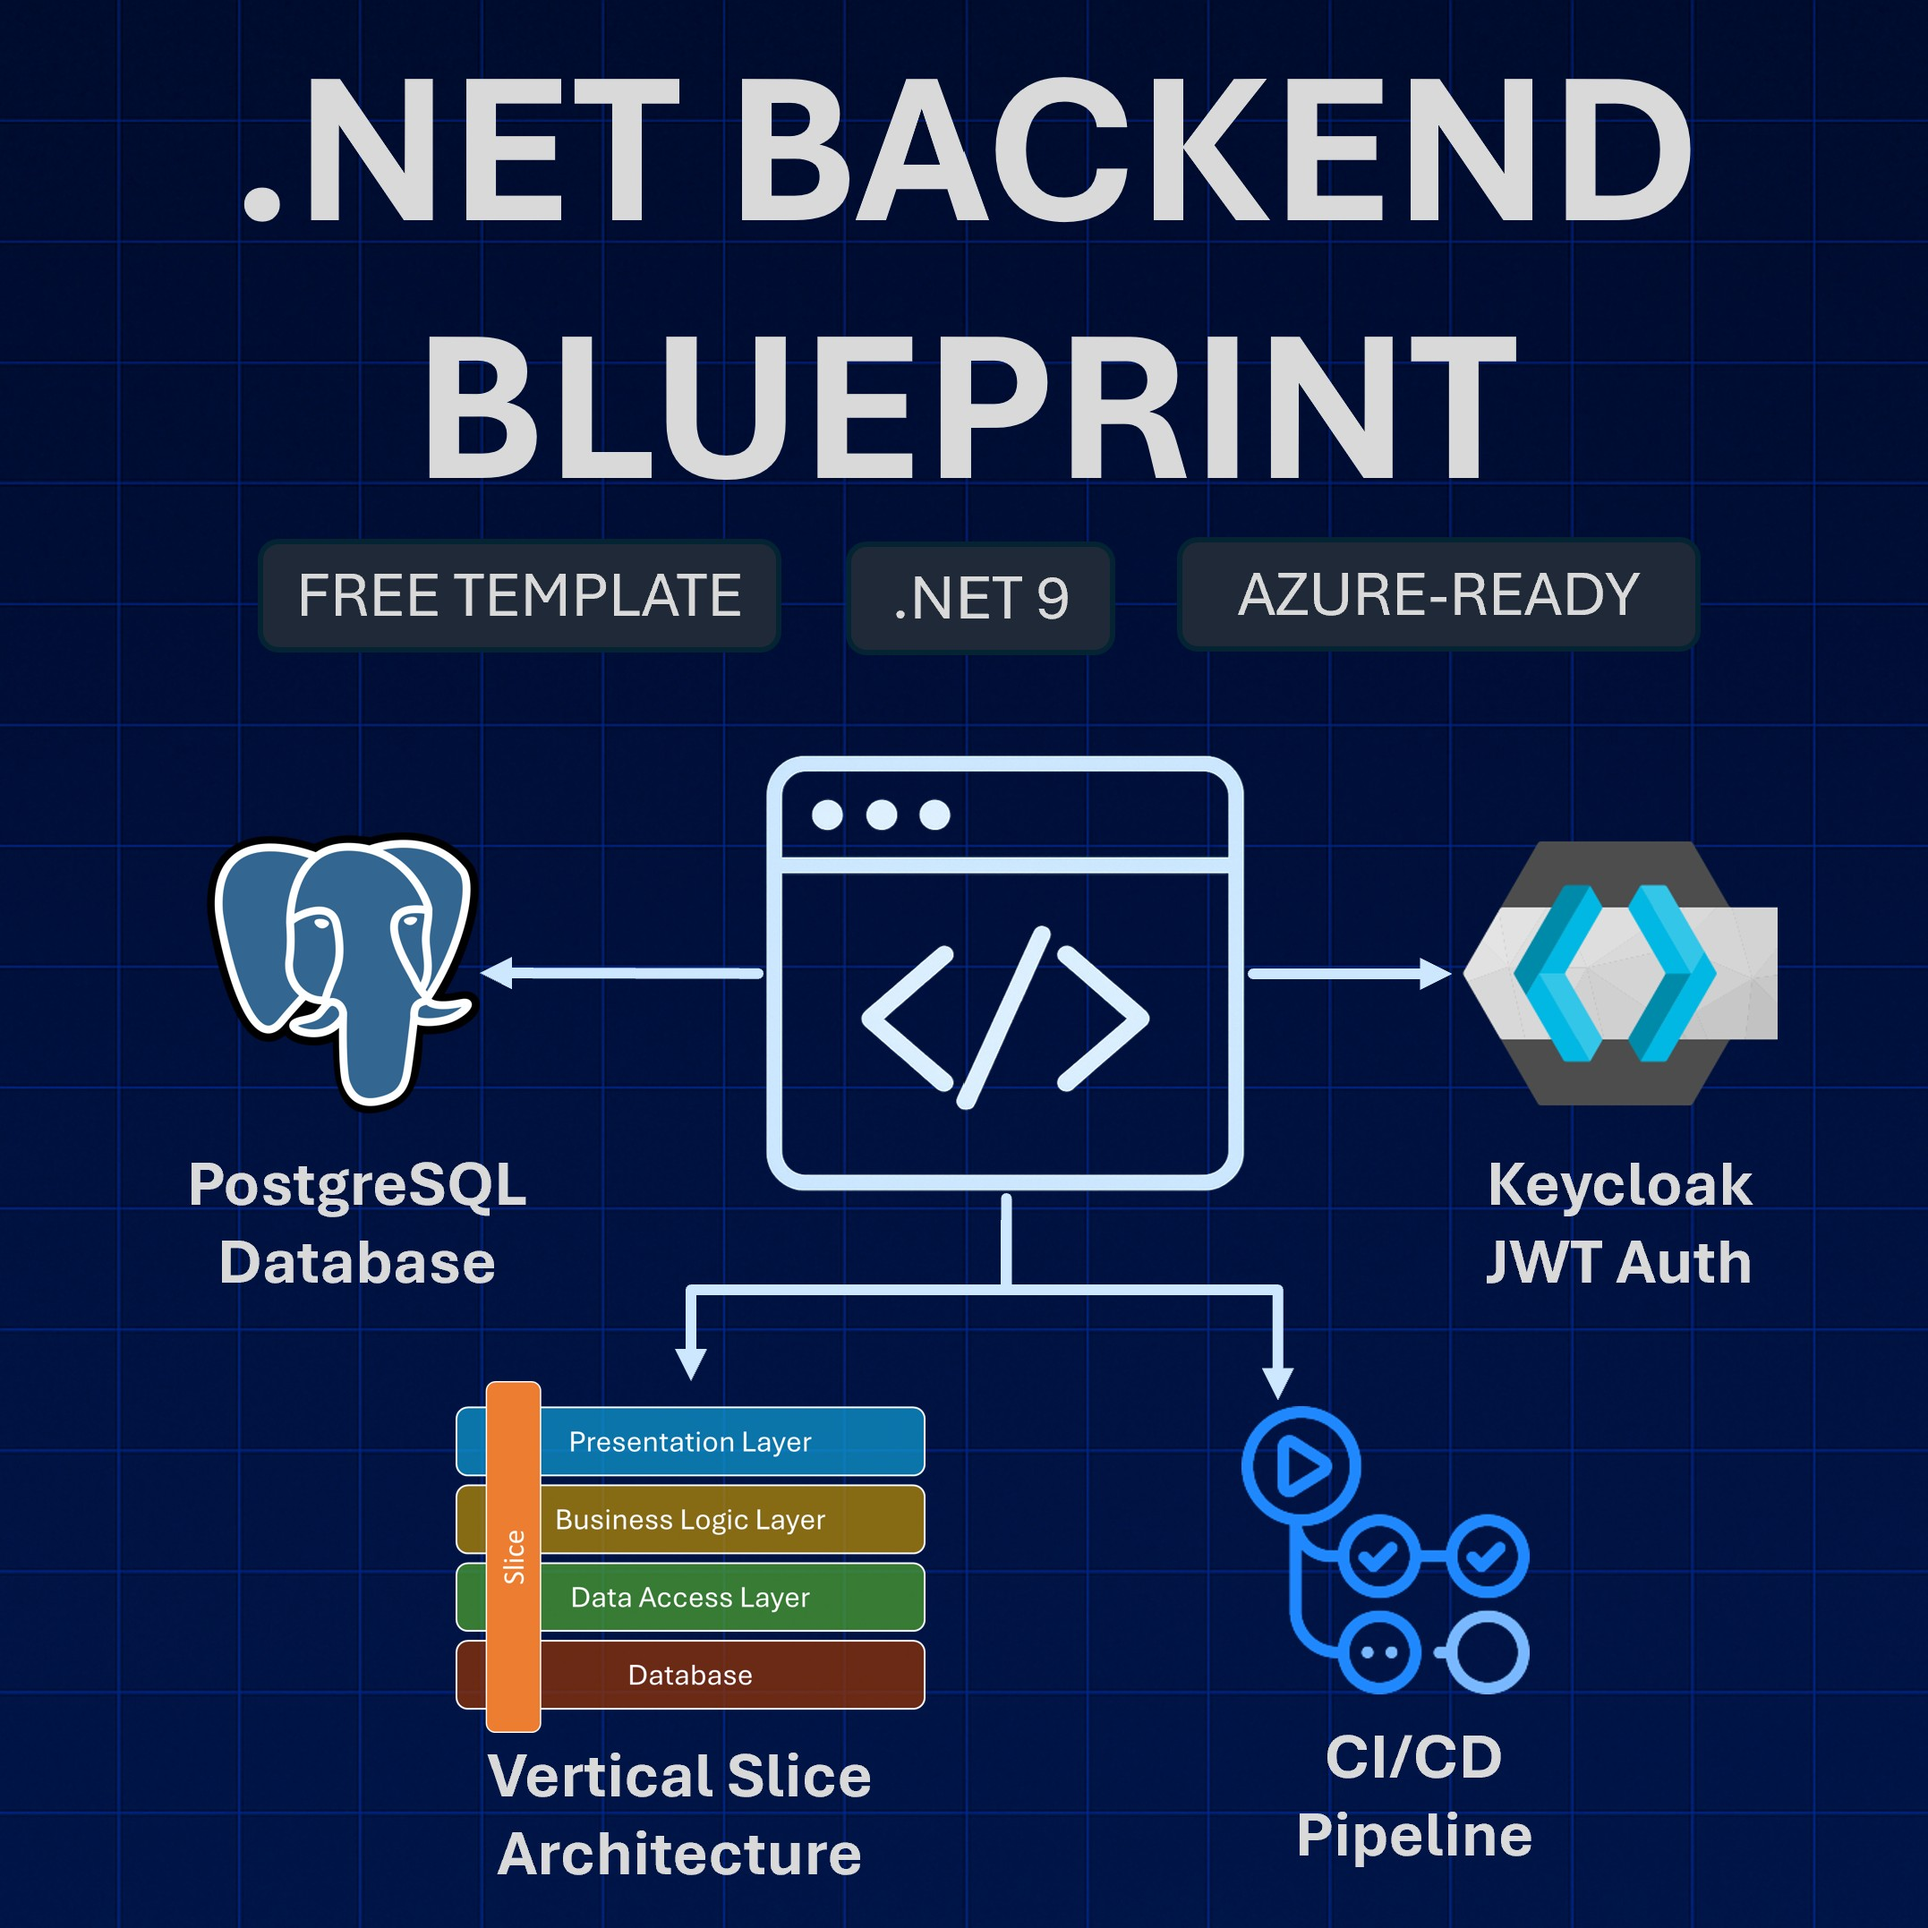
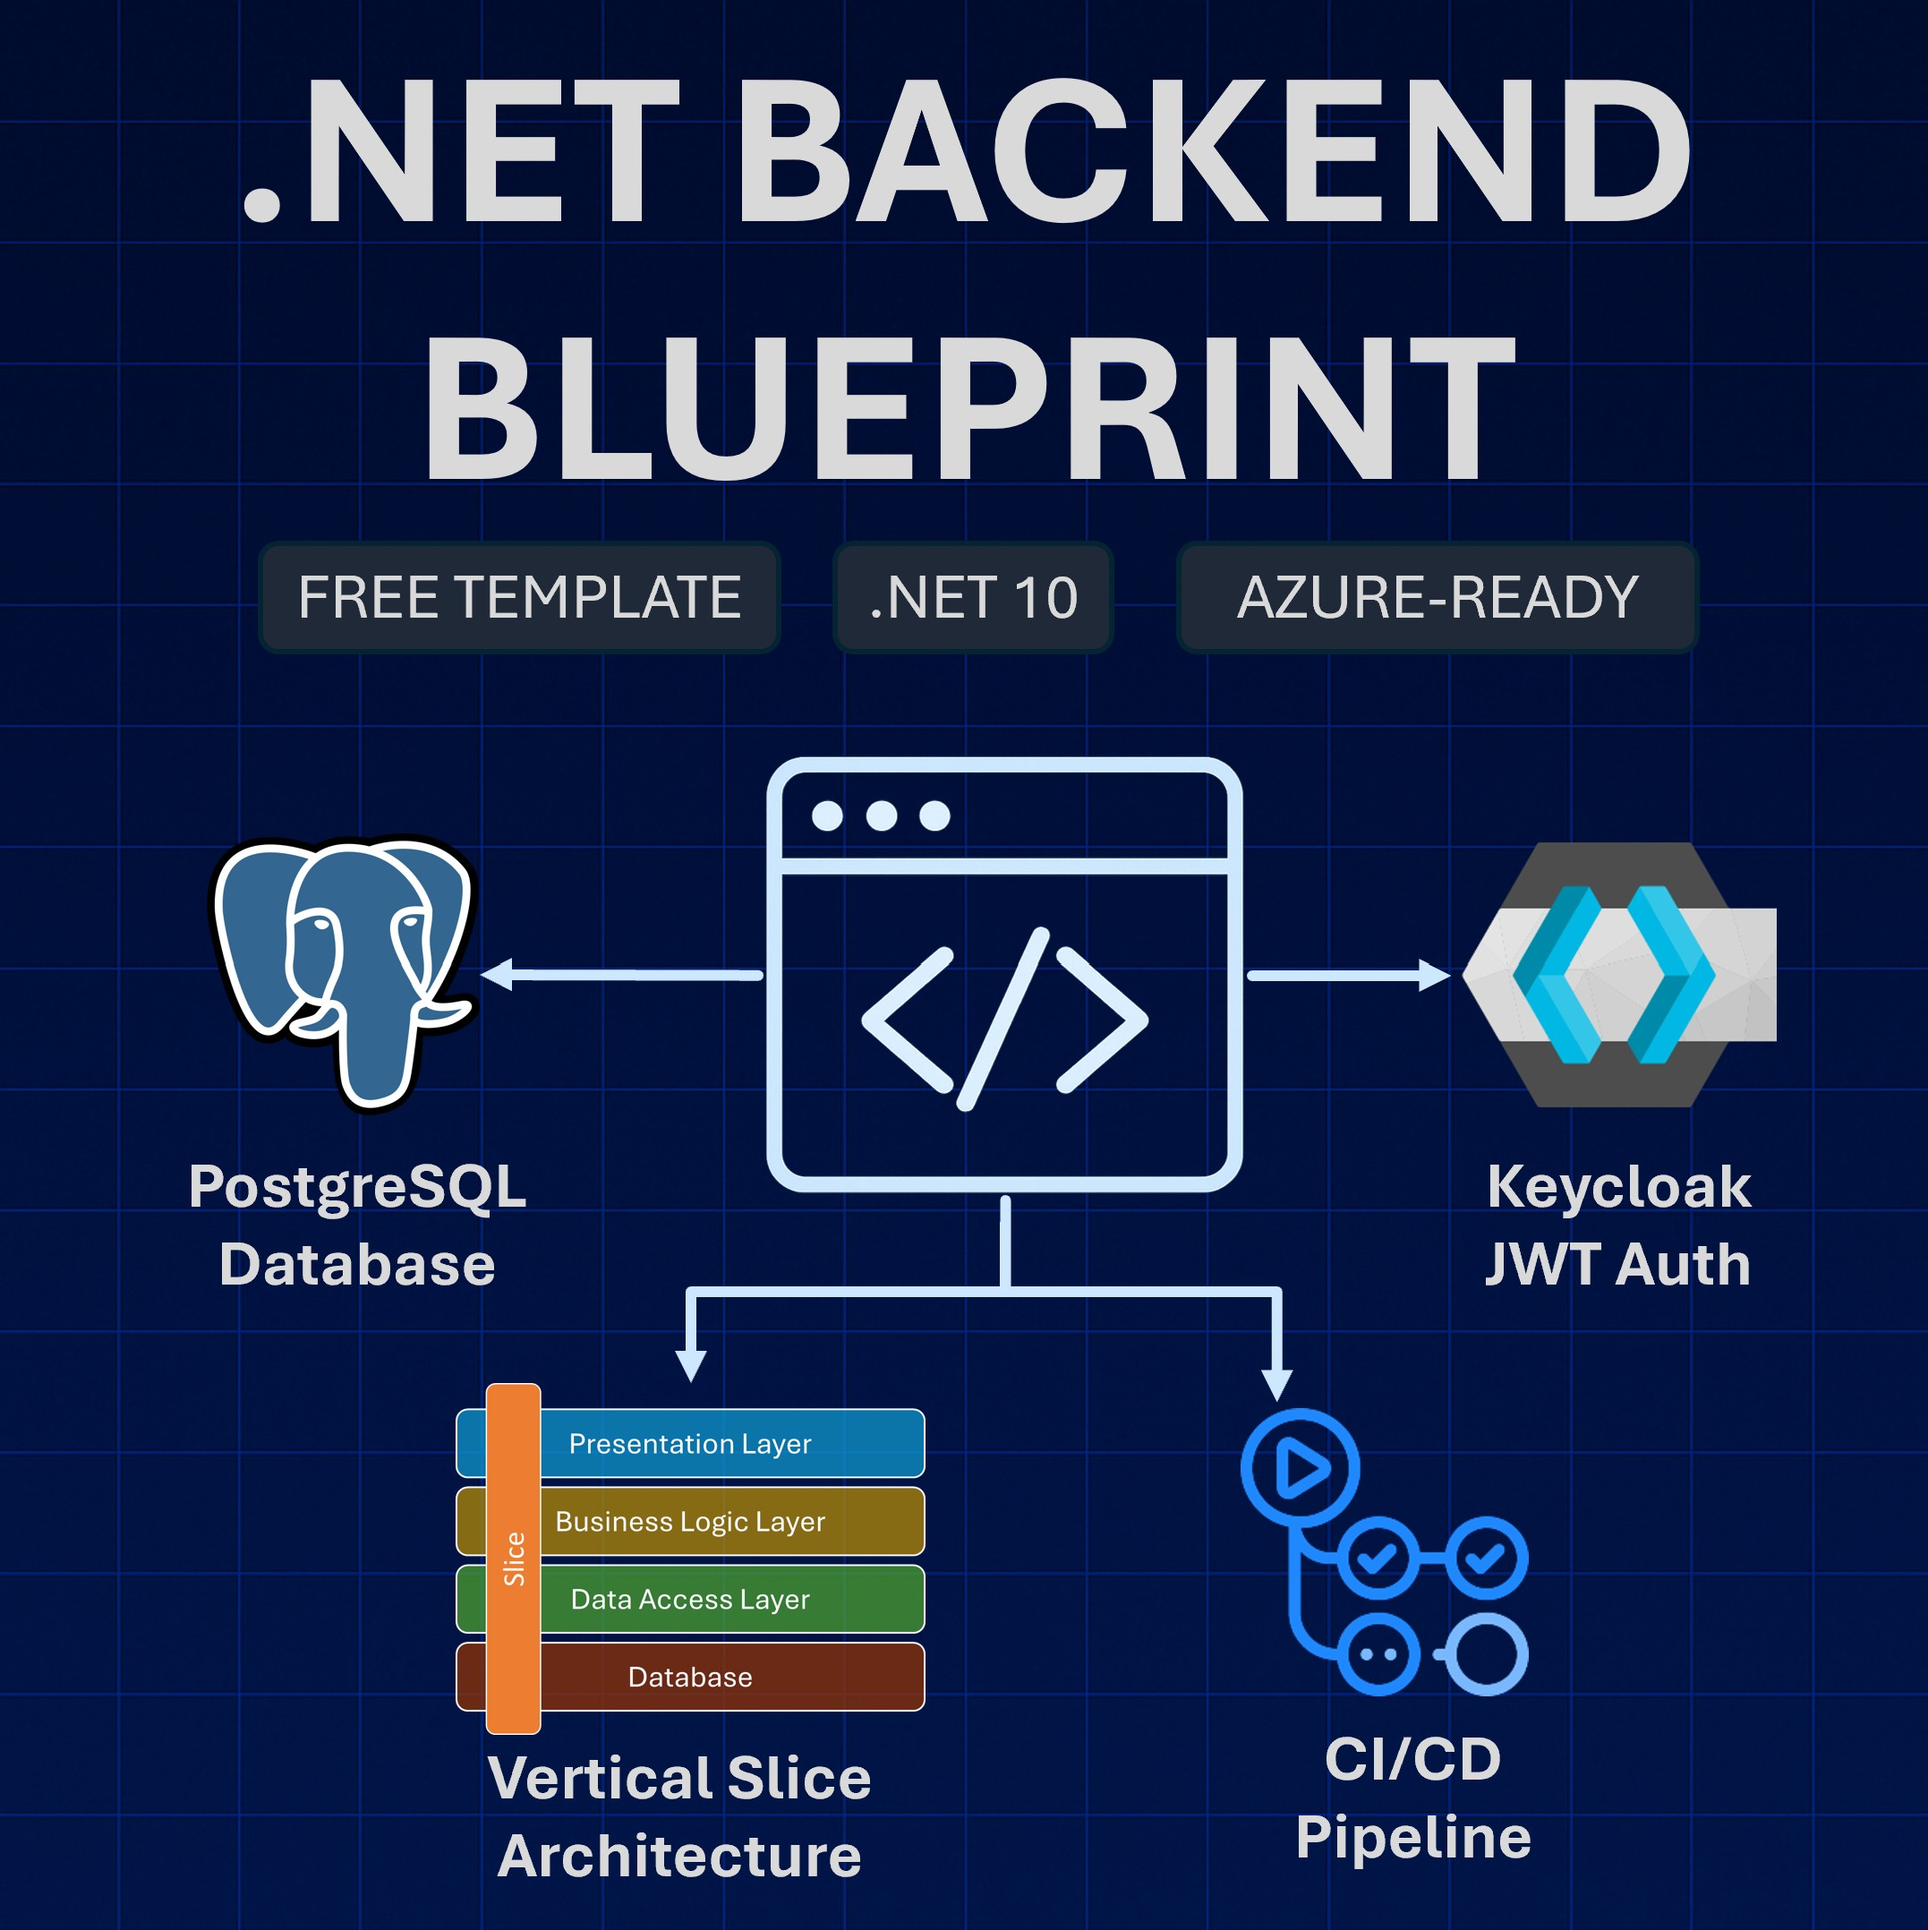
Update backend blueprint pages to .NET 10

diff --git a/list-sent.html b/list-sent.html
@@ -259,7 +259,7 @@
                             <i class="fas fa-rocket text-white"
                                 style="font-size: 1.25rem; margin-right: 1rem; margin-top: 0.1rem;"></i>
                             <div class="media-body">
-                                <h5 class="font-weight-bold">Production-Ready .NET 9 API</h5>
+                                <h5 class="font-weight-bold">Production-Ready .NET 10 API</h5>
                                 <p>Complete Web API with <strong>Vertical Slice Architecture</strong>, global error
                                     handling, and health checks. Start building features immediately.</p>
                             </div>
@@ -413,7 +413,7 @@
                                 style="font-size: 1.25rem; margin-right: 1rem; margin-top: 0.1rem;"></i>
                             <div class="media-body">
                                 <h5 class="font-weight-bold">GitHub Codespaces Ready</h5>
-                                <p><strong>Pre-configured dev container</strong> with .NET 9 SDK, Aspire CLI, and all
+                                <p><strong>Pre-configured dev container</strong> with .NET 10 SDK, Aspire CLI, and all
                                     development tools for instant cloud development environment.</p>
                             </div>
                         </div>

diff --git a/roadmap-sent.html b/roadmap-sent.html
@@ -261,7 +261,7 @@
                             <i class="fas fa-rocket text-white"
                                 style="font-size: 1.25rem; margin-right: 1rem; margin-top: 0.1rem;"></i>
                             <div class="media-body">
-                                <h5 class="font-weight-bold">Production-Ready .NET 9 API</h5>
+                                <h5 class="font-weight-bold">Production-Ready .NET 10 API</h5>
                                 <p>Complete Web API with <strong>Vertical Slice Architecture</strong>, global error
                                     handling, and health checks. Start building features immediately.</p>
                             </div>
@@ -415,7 +415,7 @@
                                 style="font-size: 1.25rem; margin-right: 1rem; margin-top: 0.1rem;"></i>
                             <div class="media-body">
                                 <h5 class="font-weight-bold">GitHub Codespaces Ready</h5>
-                                <p><strong>Pre-configured dev container</strong> with .NET 9 SDK, Aspire CLI, and all
+                                <p><strong>Pre-configured dev container</strong> with .NET 10 SDK, Aspire CLI, and all
                                     development tools for instant cloud development environment.</p>
                             </div>
                         </div>

diff --git a/blueprint.html b/blueprint.html
@@ -203,7 +203,7 @@
                             <i class="fas fa-rocket text-white"
                                 style="font-size: 1.25rem; margin-right: 1rem; margin-top: 0.1rem;"></i>
                             <div class="media-body">
-                                <h5 class="font-weight-bold">Production-Ready .NET 9 API</h5>
+                                <h5 class="font-weight-bold">Production-Ready .NET 10 API</h5>
                                 <p>Complete Web API with <strong>Vertical Slice Architecture</strong>, global error
                                     handling, and health checks. Start building features immediately.</p>
                             </div>

diff --git a/template-sent.html b/template-sent.html
@@ -332,7 +332,7 @@
                                 style="font-size: 1.25rem; margin-right: 1rem; margin-top: 0.1rem;"></i>
                             <div class="media-body">
                                 <h5 class="font-weight-bold">GitHub Codespaces Ready</h5>
-                                <p><strong>Pre-configured dev container</strong> with .NET 9 SDK, Aspire CLI, and
+                                <p><strong>Pre-configured dev container</strong> with .NET 10 SDK, Aspire CLI, and
                                     all development tools for instant cloud development environment.</p>
                             </div>
                         </div>
